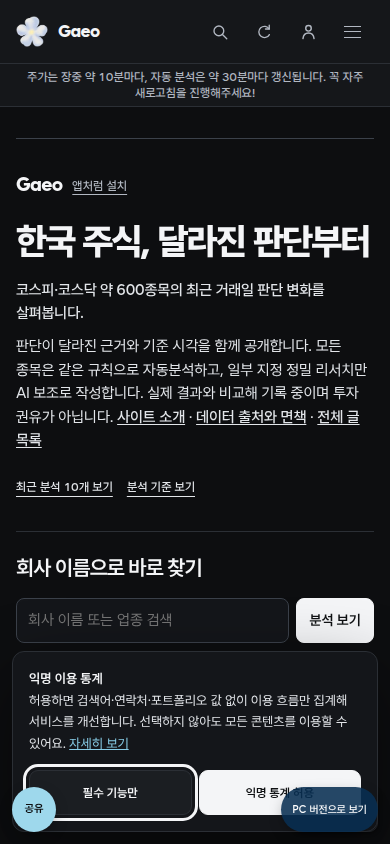
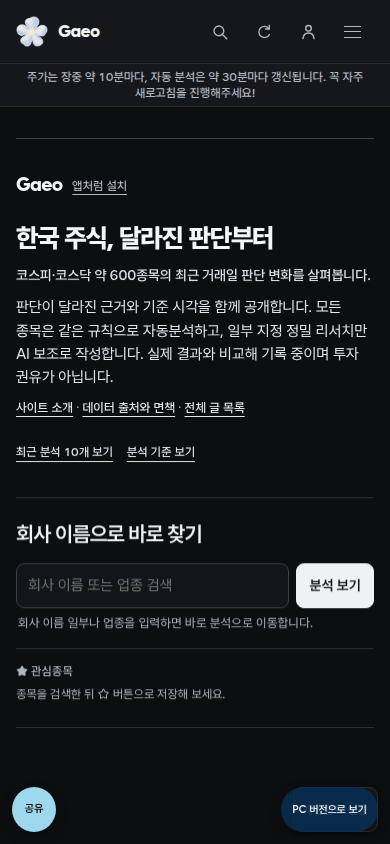
홈 히어로 글자 크기 축소 + 신뢰 링크 줄을 설명 아래 별도 문단으로 (소유자 지시 2026-09-03)
소유자 지시: "색은 좋아. 글자 크기 줄이고, 사이트 소개부터는 문장 한 문단 내려서 표기해. 글자가 너무 커."

- editorial-foundation.css: .hero-title 데스크톱 clamp(42px,4.4vw,66px) → clamp(34px,3.2vw,44px),
  ≤900px clamp(36px,10.5vw,48px) → clamp(28px,6.5vw,34px), ≤620px 36px → 26px;
  .tagline 17/16/15px → 16/15/14px; .hero-intro 15px 유지(접근성 계약 ≥15px);
  .hero-trust 신설(13px, ≤620px 12.5px, 설명 아래 8~10px 간격 별도 줄)
- editorial-accessibility.css: ≤320px .hero-title 34px → 24px, overflow 보정 목록에 .hero-trust 추가
- index.html: 사이트 소개 · 데이터 출처와 면책 · 전체 글 목록 링크를 .hero-intro 밖 <p class="hero-trust">로 이동(href·문구 동일),
  editorial-foundation.css?v=20260903-v1 → v2(브라우저 캐시 갱신; 테스트·스냅샷은 이 문자열을 고정하지 않음)
- docs/reviews/about_theme_hotfix/: 3차 실측·스크린샷(390/320/1440, 어두움 390)

실측 font-size: 제목 1440 63→44px · 390 36→26px · 320 34→24px, 한 줄 소개 16/15/14px, 설명 15px,
링크 줄 13/12.5px. 가로 넘침 0, pageerror 0, body 배경 순백 유지.

검증: 정적 6개 PASS(editorial_foundation·editorial_accessibility·index_growth_contract·growth_claims·home_daily_brief·design_contract),
브라우저 typography_quality 전체 통과(362 PASS)·editorial_foundation_browser 전체 통과·editorial_accessibility_browser 전체 통과,
CI 동일 회귀 Python 57/57 · Node 34/34.

소유자 시각 승인 게이트: PR로만 올리고 병합·배포하지 않는다.

Claude-Session: https://claude.ai/code/session_01Ng1xLMndUQQiSYMcjHY4TJ

Changed region(s): [[0.0308, 0.2464, 0.9538, 0.5853], [0.0308, 0.6161, 0.9846, 0.9858]]

diff --git a/editorial-foundation.css b/editorial-foundation.css
@@ -133,17 +133,18 @@ a:focus-visible,[tabindex]:focus-visible{
   max-width:720px;
   margin:0;
   color:var(--editorial-heading);
-  font-size:clamp(42px,4.4vw,66px);
+  /* 2026-09-03 소유자 지시: 히어로 글자를 줄인다(이전 clamp(42px,4.4vw,66px)). */
+  font-size:clamp(34px,3.2vw,44px);
   font-weight:800;
-  line-height:1.04;
-  letter-spacing:-.055em;
+  line-height:1.08;
+  letter-spacing:-.05em;
   word-break:keep-all;
 }
 .home-dashboard .tagline{
   max-width:700px;
-  margin-top:22px;
+  margin-top:18px;
   color:var(--editorial-text);
-  font-size:17px;
+  font-size:16px;
   font-weight:500;
   line-height:1.55;
 }
@@ -156,6 +157,16 @@ a:focus-visible,[tabindex]:focus-visible{
   line-height:1.68;
 }
 .home-dashboard .hero-intro a{color:var(--editorial-text);font-weight:500}
+/* 2026-09-03 소유자 지시: 사이트 소개·데이터 출처와 면책·전체 글 목록 링크는 설명 문단 아래 별도 줄로 */
+.home-dashboard .hero-trust{
+  max-width:740px;
+  margin:10px 0 0;
+  color:var(--editorial-secondary);
+  font-size:13px;
+  font-weight:400;
+  line-height:1.6;
+}
+.home-dashboard .hero-trust a{color:var(--editorial-text);font-weight:500;text-decoration:underline;text-underline-offset:4px}
 .hero-actions{gap:18px;margin-top:18px}
 .hero-action,.hero-action.primary{
   min-height:44px;
@@ -323,8 +334,8 @@ html.gdark .gr-chip[aria-pressed="true"]{color:var(--editorial-control-fg)}
   .home-dashboard{margin-top:20px}
   .home-lead{grid-template-columns:1fr;gap:0}
   .home-dashboard>.home-lead>header{padding:30px 0 22px}
-  .hero-title{font-size:clamp(36px,10.5vw,48px);line-height:1.08}
-  .home-dashboard .tagline{margin-top:17px;font-size:16px}
+  .hero-title{font-size:clamp(28px,6.5vw,34px);line-height:1.12}
+  .home-dashboard .tagline{margin-top:14px;font-size:15px}
   .home-dashboard .hero-intro{margin-top:11px;font-size:15px;line-height:1.62}
   .hero-actions{margin-top:12px}
   .hero-search-card{
@@ -349,9 +360,10 @@ html.gdark .gr-chip[aria-pressed="true"]{color:var(--editorial-control-fg)}
   .refresh-notice{padding-right:14px;padding-left:14px;font-size:12px}
   .home-dashboard>.home-lead>header{padding-top:24px}
   .home-hero-top{margin-bottom:15px}
-  .hero-title{font-size:36px}
-  .home-dashboard .tagline{font-size:15px;line-height:1.52}
-  .home-dashboard .hero-intro{font-size:15px;line-height:1.56}
+  .hero-title{font-size:26px;line-height:1.16}
+  .home-dashboard .tagline{margin-top:12px;font-size:14px;line-height:1.5}
+  .home-dashboard .hero-intro{margin-top:10px;font-size:15px;line-height:1.56}
+  .home-dashboard .hero-trust{margin-top:8px;font-size:12.5px}
   .hero-actions{gap:14px}
   .hero-action,.hero-action.primary{flex:0 1 auto;min-height:44px;font-size:12px}
   .hero-search-card{padding-top:20px;padding-bottom:24px}

diff --git a/index.html b/index.html
@@ -493,7 +493,7 @@
 <link rel="stylesheet" href="assets/fonts/wanted-sans/WantedSansVariable.css">
 <link rel="stylesheet" href="app-shell.css?v=20260903-p3">
 <link rel="stylesheet" href="insight-rail.css?v=20260818-v2">
-<link rel="stylesheet" href="editorial-foundation.css?v=20260903-v1">
+<link rel="stylesheet" href="editorial-foundation.css?v=20260903-v2">
 <link rel="stylesheet" href="editorial-accessibility.css?v=20260903-v1">
 </head>
 <body>
@@ -689,7 +689,8 @@
           </div>
           <h1 class="hero-title">한국 주식, 달라진 판단부터</h1>
           <p class="tagline" data-edit="tagline"><span class="tagline-line">코스피·코스닥 약 600종목의 최근 거래일 판단 변화를 살펴봅니다.</span></p>
-          <p class="hero-intro">판단이 달라진 근거와 기준 시각을 함께 공개합니다. 모든 종목은 같은 규칙으로 자동분석하고, 일부 지정 정밀 리서치만 AI 보조로 작성합니다. 실제 결과와 비교해 기록 중이며 투자 권유가 아닙니다. <a href="about.html">사이트 소개</a> · <a href="disclaimer.html">데이터 출처와 면책</a> · <a href="snap/index.html">전체 글 목록</a></p>
+          <p class="hero-intro">판단이 달라진 근거와 기준 시각을 함께 공개합니다. 모든 종목은 같은 규칙으로 자동분석하고, 일부 지정 정밀 리서치만 AI 보조로 작성합니다. 실제 결과와 비교해 기록 중이며 투자 권유가 아닙니다.</p>
+          <p class="hero-trust"><a href="about.html">사이트 소개</a> · <a href="disclaimer.html">데이터 출처와 면책</a> · <a href="snap/index.html">전체 글 목록</a></p>
           <div class="hero-actions">
             <button class="hero-action" id="heroLatestBtn" type="button">최근 분석 10개 보기</button>
             <button class="hero-action" id="heroChangesBtn" type="button">분석 기준 보기</button>

diff --git a/editorial-accessibility.css b/editorial-accessibility.css
@@ -276,7 +276,7 @@ body .nw-head>.nw-title{display:block}
 html:not(.gdark):not(.about-page){--krdn:#335f9e;--amber:#79501f}
 body .share-fab{background:#245a70;color:#fff;font-size:11px;font-weight:600}
 html.gdark body .share-fab{background:#9ed8ec;color:#0d0e10}
-body :where(.home-lead>header,.hero-copy,.hero-title,.tagline,.hero-intro){max-width:100%;min-width:0;overflow:visible}
+body :where(.home-lead>header,.hero-copy,.hero-title,.tagline,.hero-intro,.hero-trust){max-width:100%;min-width:0;overflow:visible}
 body .hero-title{white-space:normal!important;overflow-wrap:anywhere}
 body :where(.global-icon-btn,.global-menu-btn,.analysis-tab,.analyst-tab,.fm-tab,.rot-horizon,.rot-help,.rot-rank,.fm-sector-row,.nw-search input){min-width:44px!important;min-height:44px!important}
 body .nw-pg{min-width:44px!important}
@@ -314,7 +314,7 @@ body .fullmarket-view :where(.fm-pick b,.fm-history-grid strong){font-size:12.5p
   body>main.da-shell{width:100%;padding-inline:16px}
   h1{overflow-wrap:anywhere;text-wrap:pretty}
   :where(button,input,select,textarea){max-width:100%}
-  body .hero-title{font-size:34px}
+  body .hero-title{font-size:24px}
   body .global-utilities{gap:0}
 }
 

diff --git a/docs/reviews/about_theme_hotfix/README.md b/docs/reviews/about_theme_hotfix/README.md
@@ -22,6 +22,13 @@
 > 콘텐츠로 세어, 그날 근거 문장에 '급등·신고가' 같은 키워드가 있는 종목이면 데이터에 따라 실패했다(같은 트리에서 1차 통과·2차 실패로 확인).
 > `aria-hidden` 요소를 제외하도록 테스트 필터만 바로잡았다(앱 마크업·데이터 무변경).
 >
+> **3차(2026-09-03, 소유자 지시 "글자 크기 줄이고, 사이트 소개부터는 문단 내려서")**: 홈 히어로 글자를 줄이고
+> "사이트 소개 · 데이터 출처와 면책 · 전체 글 목록" 링크를 설명 문단(`.hero-intro`) 밖 별도 줄(`.hero-trust`)로 옮겼다.
+> 실측 font-size: 제목 `.hero-title` 데스크톱 1440 63→**44px**(clamp(34px,3.2vw,44px)) · 390 36→**26px** · 320 34→**24px**;
+> 한 줄 소개 `.tagline` 17/16/15→**16/15/14px**; 설명 `.hero-intro` **15px 유지**(접근성 계약 ≥15px); 링크 줄 `.hero-trust` 13px(390 이하 12.5px),
+> 설명 아래 8~10px 간격의 별도 줄. `index.html`의 `editorial-foundation.css?v=20260903-v1` → `v2`(브라우저 캐시 갱신용; 테스트·스냅샷은 이 문자열을 고정하지 않음).
+> 스크린샷 `after/home-light-mobile390.png`·`home-light-desktop.png`·`home-dark-mobile390.png`는 3차 상태로 교체, `home-light-mobile320.png` 추가.
+>
 > 스크린샷 `after/`는 순백 적용 후로 교체했다(`404-*`, `rotation-*`, `calc-*`, `snapindex-*`, `stock-*` 추가).
 > 아래 1차 기록(About 전용 핫픽스)은 그대로 둔다 — 표의 "수정 후 `#F7F7F5`"는 1차 기준이며 현재는 `#FFFFFF`다.
 
